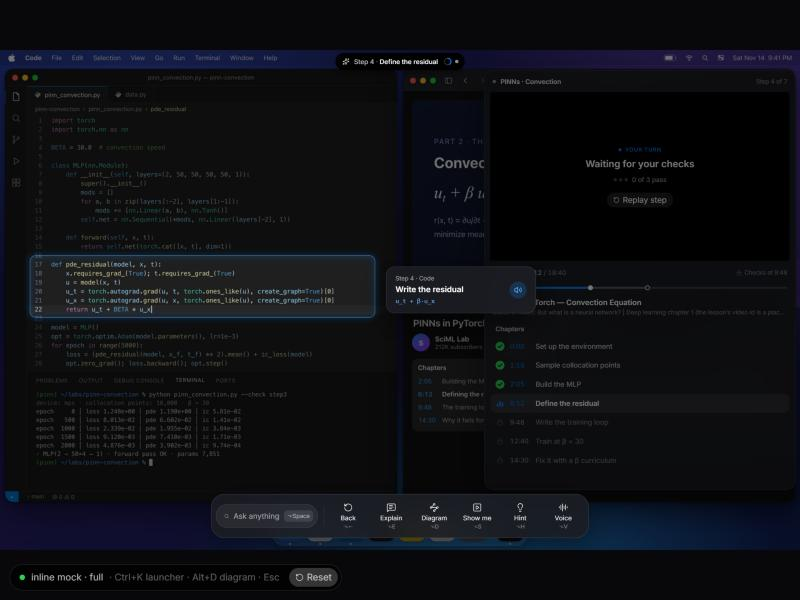
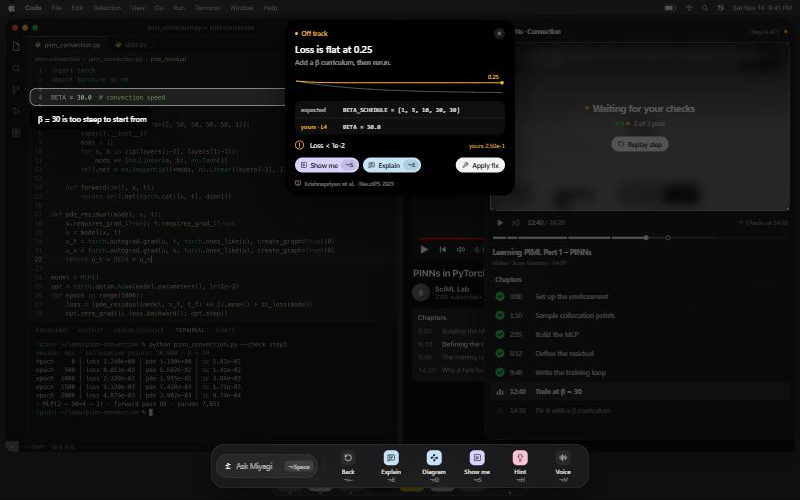
player: brief for pass 2 (long videos, pendingNext, skipped intro, kind); stage shot

diff --git a/app/agents/player.md b/app/agents/player.md
@@ -1,6 +1,6 @@
 # player
 
-**Status:** v1 built (pass 1) · works in the browser stage · Electron window written + typechecked + builds, **not run** (Windows SAC) · **Priority:** P0 · **Port:** 5182 · **Branch:** `adrian/player`
+**Status:** pass 2 (functional) built · works in the browser stage · Electron window written + typechecked + builds, **not run** (Windows SAC) · **Priority:** P0 · **Port:** 5182 · **Branch:** `adrian/player`
 
 ### Pass 1: what works (checked in the stage, `?scenario=full`)
 - **Gating:** on `step.started` it loads/cues the step's clip at `video.start` and plays. When playback reaches `video.end` while the step is open it pauses, snaps to `end` and shows a calm **"Waiting for your checks"** state (check dots, "2 of 3 pass", **Replay step**). Play is refused at the gate (the play button turns into a lock). Checked: stopped at 869.8s → 870.0, reported `{t: 870, playing: false}`.
@@ -20,6 +20,15 @@
 - **Header:** `<MiyagiMark size={14} />` on the left, status dot on the right, like the notch pill. No sparkles, glows, gradients or emoji; no inline `rgba`/hex left in the player (white alphas are Tailwind classes, the rest are tokens). The playhead lost its drop shadow.
 - **Electron window background** is derived from `color.glass` (made opaque: `rgb(28,28,30)`), not a hard-coded hex.
 - Screenshots: `player-brand-stage.png` (whole stage, step 4 just passed, the real video playing), `player-brand-waiting.png` (step 7 held at 18:40, gray "Your turn"), `player-brand-offtrack.png` (step 6, amber), `player-brand-passed.png` (the 400ms beat, staged). The close-ups hide the spotlight dim. The pre-brand `player-*.png` shots are kept for comparison.
+
+### Pass 2: long videos built part by part (functional)
+- **Chapters grow:** `lesson.updated` replaces `steps` (ids stable, new ones appended). Rows are keyed by step id inside `AnimatePresence initial={false}`, so only new rows fade in; checked in the stage that the existing rows keep their DOM nodes across both updates. While `lesson.complete === false` a quiet last row reads **"More steps coming"** (gray spinner, "2 of 3 parts" when the engine sends `parts`); it fades out when the lesson completes. The current row is kept in view (the list scrolls, never the page).
+- **`pendingNext`** (`step.passed {pending}`): no resume. If the video is held at the step's end it stays there; if the learner passed early it plays on to the clip's end and holds there. The video shows **"Next part is still building"** (+ "2 of 3 parts ready"), the controls read "Next part building" and the lock says "Opens when the next part is ready". Play is refused while held. When `lesson.updated` and the next `step.started` arrive, it plays on from where it is (no jump when it's already inside the new clip).
+- **Skipped intro:** `card {kind: 'preflight'}.preflight.buildPlan.skippedIntro` (same video only). A clip that starts inside it (chapter 1) starts at its end: the first cue, `step.started`, Replay, the chapter row's time and click, and the timeline segment.
+- **Engine intent via `lesson.video.kind`** (core requests 2 and 3, landed): seek / pause / play from the engine, `jump` from core `seekVideo` (cards' video links; main relays it to the player window). The microtask heuristic and the `player:intent` relay (renderer + main handler) are gone. Checked all five paths: seek, pause (keeps the real position), play, jump, jump paused.
+- **Kept from shell:** UI polish's one-line waiting state + `PrimaryButton` Replay, and Michael's `ctx.raise(win, -1)` in `player.ts`.
+- **Re-checked in the stage:** `?scenario=full` step 4 waits on the engine pause, resumes from 6:12 on pass, step 5 holds; `?scenario=player` (the long lesson): starts at 0:45 (skipped intro), holds at 1:00, resume on pass, rows appended twice, the pending pass, completion.
+- **Screenshots:** re-shot `player-stage.png` (whole stage, step 6 off track). The rest couldn't be re-shot: the Claude window was minimized, so the Browser pane stopped drawing (screenshots timed out or came back blank); the states above were checked through the DOM and the stores instead. `player-brand-*.png` still show the current look (except the polish pass's one-line waiting state).
 
 ### Left / next
 - Electron: docking, header drag, bounds restore, no focus steal, autoplay, `player:intent` relay: all unverified (needs the Mac).
@@ -52,6 +61,7 @@ Why not `stage: {…}`: the Stage paints every window **above** the whole overla
 
 ## Test
 `npm run dev:web -- --port 5182` → `http://localhost:5182/?scenario=full` (`?scenario=player` alone has only the Back triggers, no lesson). Ctrl+K → type anything → Enter → Enter. The player slides in on the right at step 4. Then: ⌥← Back (steps 4, 6), ⌥S Show me (4, 6), ⌥E Explain → the card's video jump, Apply fix at step 6. HUD Reset restarts.
+**Long lesson (pass 2):** `http://localhost:5182/?scenario=player` plays it on connect (about 45 s): preflight with a skipped intro → `lesson.ready` (2 steps, `complete: false`) → step 1 from 0:45, holds at 1:00, passes → part 2 arrives (`lesson.updated`, 4 steps) → step 4 passes with `pending` ("Next part is still building") → part 3 completes the lesson (6 steps) → step 5 plays. `full` doesn't play it (its `connect` is blank).
 In the mock, the engine sends `video.pause` right after every `step.started`, so you see the waiting state at once and the clip never runs to its end by itself. To watch the end-of-clip gate: press ⌥← (the clip plays to its end: 3.6 min at step 4, 1.8 min at step 6), or in the console at step 6: `__player.player.seek(866, true)` (stops at 870 four seconds later). `window.__player` exists only in dev.
 
 ## Adrian's spec
@@ -59,8 +69,8 @@ In the mock, the engine sends `video.pause` right after every `step.started`, so
 
 ## Core requests
 1. **Stage z-order** (`dev/Stage.tsx`): render windows with `z < 0` before the `<Overlay>`, and make the stage's overlay root pass clicks through except over `[data-hit]` (as Electron's click-through does), so a window under the overlay stays clickable. Then the player goes back to `windows: [{ route: 'player', stage: dockRect, z: -1 }]` and drops its stage overlay layer. *Workaround in place:* the z 5 overlay layer above.
-2. **Card video jumps don't cross windows in Electron.** Cards set `useLesson.video` in the overlay window; the player lives in its own window with its own store. *Workaround in place:* in any non-player window the player's store relays a direct (non-engine) change of `lesson.video` through `bridge.invoke('player:intent')` → main → `ctx.broadcast('player:intent')` → player window. Cleaner: a core `seekVideo(t, play)` in `core/lesson.ts` that sets the store and broadcasts to every window.
-3. **Say what changed `lesson.video`.** `video.pause` / `video.play` keep the last seek's `t`, so a follower can't tell "seek to 372" from "pause" or from a card jump to the same `t`. *Workaround:* the player flags the last `video.*` message and decides on a microtask. Ask: add `kind: 'seek' | 'pause' | 'play' | 'jump'` to `lesson.video`.
+2. ~~**Card video jumps don't cross windows in Electron.**~~ **Done in core** (PR #19): `seekVideo(t, play)`; the player's relay is removed. Original request: Cards set `useLesson.video` in the overlay window; the player lives in its own window with its own store. *Workaround in place:* in any non-player window the player's store relays a direct (non-engine) change of `lesson.video` through `bridge.invoke('player:intent')` → main → `ctx.broadcast('player:intent')` → player window. Cleaner: a core `seekVideo(t, play)` in `core/lesson.ts` that sets the store and broadcasts to every window.
+3. ~~**Say what changed `lesson.video`.**~~ **Done in core** (PR #19): `lesson.video.kind`; the player follows it, the heuristic is removed. Original request: `video.pause` / `video.play` keep the last seek's `t`, so a follower can't tell "seek to 372" from "pause" or from a card jump to the same `t`. *Workaround:* the player flags the last `video.*` message and decides on a microtask. Ask: add `kind: 'seek' | 'pause' | 'play' | 'jump'` to `lesson.video`.
 4. ~~**`overlay.bounds` should include the player window.**~~ **Done in core** (`ed5e9c9`, `40d6763`): `ctx.reportBounds(win)` merges feature windows into `overlay.bounds` (re-sent on move, resize, show, hide), and `player.ts` calls it after `setAlwaysOnTop`. In the stage the panel is still marked `data-ui`. Unverified on the Mac like the rest of the window.
 5. **Packaged build: YouTube error 153** (see Notes). Needs a core change in how windows load (`src/main/index.ts` `createWindow`).
 
